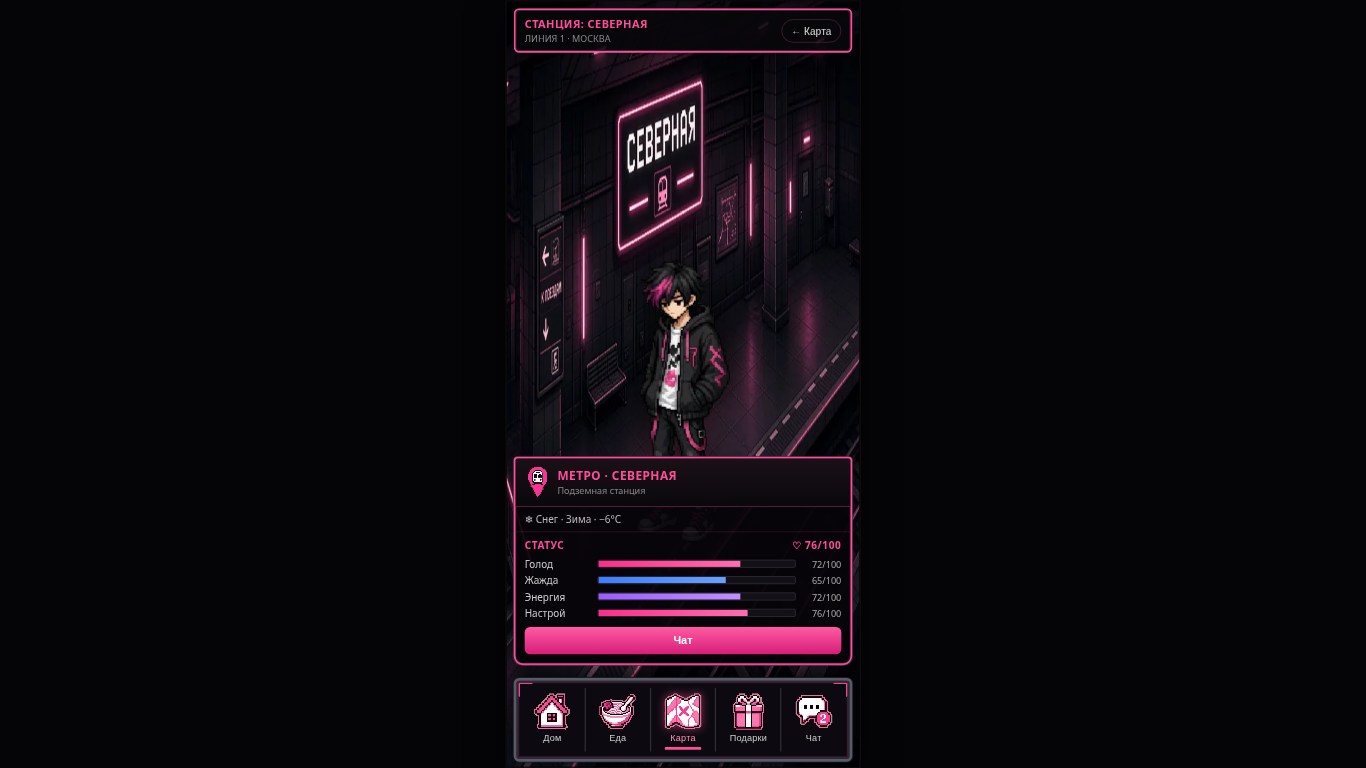
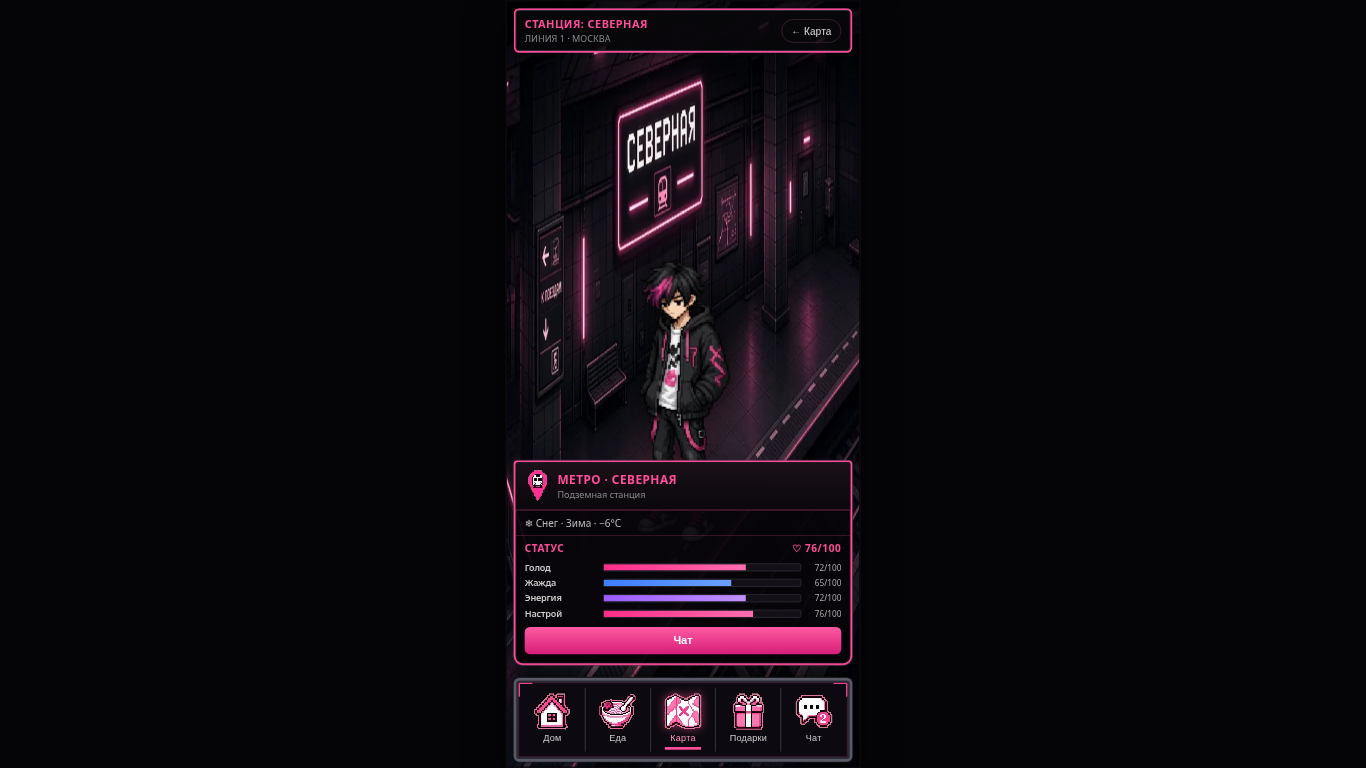
fix: metro status label fit (nm 78px)

Changed region(s): [[0.369, 0.5938, 0.6149, 0.8125]]

diff --git a/css/style.css b/css/style.css
@@ -492,12 +492,12 @@ html,body{height:100%;background:#0a0a0c;color:#fff;font-family:"Segoe UI",syste
 }
 .loc-panel .lp-bars{display:grid;gap:3px;padding:4px 10px 8px}
 .loc-panel .lp-row{display:flex;align-items:center;gap:8px;font-size:11px;color:#ccc}
-.loc-panel .lp-row .nm{width:72px;min-width:72px;flex-shrink:0;font-size:11px;white-space:nowrap;overflow:visible}
+.loc-panel .lp-row .nm{width:78px;min-width:78px;flex-shrink:0;font-size:10px;font-weight:600;white-space:nowrap;overflow:visible;letter-spacing:-.02em}
 .loc-panel .lp-row .bar{flex:1;height:9px;background:#141018;border:1px solid #2a2a32;border-radius:2px;overflow:hidden}
 .loc-panel .lp-row .bar>i{display:block;height:100%;background:linear-gradient(90deg,#ff2d8a,#ff6eb0)}
 .loc-panel .lp-row:nth-child(2) .bar>i{background:linear-gradient(90deg,#3d7dff,#6aa0ff)}
 .loc-panel .lp-row:nth-child(3) .bar>i{background:linear-gradient(90deg,#9b5cff,#c090ff)}
-.loc-panel .lp-row .val{width:42px;text-align:right;color:#aaa;font-size:10px}
+.loc-panel .lp-row .val{width:36px;text-align:right;color:#aaa;font-size:9px;flex-shrink:0}
 .loc-panel .lp-actions{display:flex;gap:8px;padding:0 10px 10px;flex-wrap:wrap}
 .loc-panel .lp-actions .btn{flex:1;padding:8px;font-size:12px;border-radius:6px}
 .loc-head{
